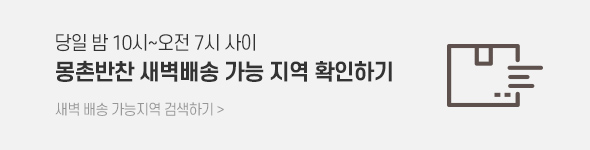
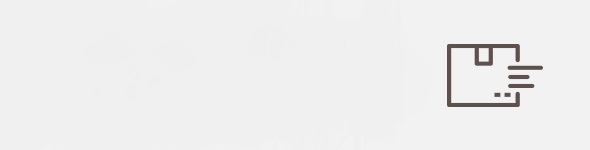
04/30 오전 진행상황

Changed region(s): [[0.0915, 0.4, 0.6712, 0.56], [0.0915, 0.2133, 0.4576, 0.3467], [0.0915, 0.6667, 0.3966, 0.7733]]

diff --git a/mcfood/html/css/main.css b/mcfood/html/css/main.css
@@ -2,7 +2,7 @@
 
 
 /* 슬라이더  */
-#slider {width:100%; height:460px; position: relative;}
+#slider {width:100%; height:460px; position: relative; background-color: #ededed;}
 .imgbox {width:1920px; height:460px; margin:0 auto;}
 
 
@@ -12,22 +12,32 @@
 
 
 /* 배송안내 이미지 */
-.del_con {width:1200px; margin:0 auto;}
-.del_left {float:left; margin:60px 0 90px 0;}
-.del_right {float:right; margin:60px 0 90px 0;}
+.del_con {width:1200px; margin:0 auto; height: 300px;}
+.del_left {float:left; margin:60px 0 90px 5px; width: 590px; height: 150px; background-image: url("../img/del_left.jpg"); background-repeat: no-repeat;}
+.del_left > p {color:#666; margin:30px 0 5px 40px; font-size: 17px; font-weight: bold;}
+.del_left > strong {display: block; font-size: 20px; margin:0 0 15px 40px;}
+.del_left > span {display: block; font-size:14px; margin:0 0 5px 40px;}
+.del_left > span > a {color:#666;}
+.del_right {float:right; margin:60px 5px 90px 0; width: 590px; height: 150px; background-image: url("../img/del_right.jpg"); background-repeat: no-repeat;}
+.del_right > p {color:#666; margin:30px 0 5px 40px; font-size: 17px; font-weight:bold;}
+.del_right > strong {display: block; font-size: 20px; margin:0 0 15px 40px;}
+.del_right > span {display: block; font-size:14px; margin:0 0 5px 40px; color:#666;}
 
 
 
 /* 각 제목 */
-.tit h3 {font-size: 35px; margin:0 0 12px 5px;}
-.tit h4 {font-size: 15px; margin:0 0 10px 5px; color:#1e1a34; line-height: 20px; font-weight: bold;}
+div.tit {width: 100%; height:80px; text-align: center; margin-bottom: 10px;}
+div.tit h3 {font-size: 35px; margin:0 0 12px 5px;}
+div.tit h4 {font-size: 15px; margin:0 0 10px 5px; color:#1e1a34; line-height: 20px; font-weight: bold;}
 
 
 
 /* 신제품 */
-.mainNewWrap {width:1200px; margin:0 auto;}
-.new_con {margin:0 auto 45px 0;}
-.item_cont {width:25%; height:25%; float:left; margin:5px 0 55px 0; padding:0 5px;}
+.mainNewWrap {width:1200px; height:1100px; margin:0 auto;}
+.new_con {width:1200px; height:900px; }
+
+/* 제품 박스 */
+.item_cont {width:25%; float:left; margin:5px 0 55px 0; padding:0 5px;}
 .item_img {width:288px; height:288px; overflow:hidden; position: relative;}
 .item_img > a > img {width:100%; height:100%; transition: 0.4s;}
 .item_img > a > img:hover{transform: scale(1.1);}
@@ -35,28 +45,28 @@
 .item_info span {display: block;}
 .item_info strong {display: block; font-size: 16px;}
 .item_explain {font-size: 13px; color: #777;}
-.price {font-size: 16px; font-weight: bold;}
+.price {font-size: 16px;}
 .t {font-size: 13px; color:#888888}
 
 /* 신제품 더보기 버튼 */
-.newmore {text-align: center; margin:0 0 70px;}
+.newmore {text-align: center;}
 .newmore a {padding:15px 20px; border-radius:40px; border:1px solid #ccc; color: #333; font-size: 15px;}
 .newmore a:hover{cursor:pointer; background-color:#1e1a34; color:#fff; border:none;}
 
 
 
 /* 회색바탕 배너 */
-.mainMiniBanner {width:100%; margin:0 0 100px; background-color: rgba(18,42,78,0.1);}
+.mainMiniBanner {width:100%; height:190px; margin:0 0 100px; background-color: rgba(18,42,78,0.1);}
 .mini_cont {width:1200px; margin:0 auto; padding:40px 0 55px;}
-span.tit {display: block; overflow: hidden; width:100%; padding:0 5px; font-weight: 700; font-size: 30px; line-height: 70px;}
-.txt {display:block; width:100%; padding:0 30px; font-size: 19px; line-height: 25px;}
+span.tit {display:block; overflow: hidden; padding:0 5px; font-weight: 700; font-size: 30px; line-height: 70px;}
+span.txt {display:block;  padding:0 30px; font-size: 19px; line-height: 25px;}
 .none {opacity: 0; cursor:default;}
 
 
 
 /* 베스트 상품 */
-.mainBestWrap {width:1200px; margin:0 auto;}
-.best_con {margin:0 auto 45px 0;}
+.mainBestWrap {width:1200px; height:1100px; margin:0 auto;}
+.best_con {width:1200px; height:900px; }
 
 
 /* 베스트 상품 선택 목록 */
@@ -76,20 +86,23 @@ span.tit {display: block; overflow: hidden; width:100%; padding:0 5px; font-weig
 .icon_btn:hover {background: rgba(256, 256, 256, 1);}
 
 /* 베스트 더보기 버튼 */
-.bestmore {text-align: center; margin:0 0 70px;}
+.bestmore {text-align: center;}
 .bestmore a {padding:15px 20px; border-radius:40px; border:1px solid #ccc; color: #333; font-size: 15px;}
 .bestmore a:hover{cursor:pointer; background-color:#1e1a34; color:#fff; border:none;}
 
 
 
-/* 이벤트 이미지 */
-.event_con {width:1200px; margin:0 auto;}
-.eventImg {margin:30px 0;}
-
-
+/* 이벤트 */
+.event_con {width:1200px; margin:50px auto; height: 600px;}
+.eventImg {margin:30px 0; width: 1200px; height: 400px; background-image: url(../img/event.jpg); background-repeat: no-repeat;}
+.eventImg > .logo {display: inline-block; margin:80px 0 0 70px; font-size: 20px; padding: 10px 15px; color:#fff; background-color: deeppink; border-radius: 20px;}
+.eventImg > strong {display: block; margin:20px 0 10px 65px; font-size: 45px;}
+.eventImg > p {margin:0 0 30px 70px; font-size: 26px;}
+.eventImg > span {display: block; margin:0 0 0 70px; font-size: 20px; }
+.eventImg > span > a {color: #666;}
 
 /* md 추천 */
-.mainMDWrap {margin:50px auto; width:1200px;}
+.mainMDWrap {margin:50px auto 100px; width:1200px; height: 700px;}
 .mainmd {margin:30px 0; height:600px;}
 .mdleft {width:50%; overflow: hidden; float:left; padding:0 10px 0 0;}
 .mdleft img {width:100%;}
@@ -107,7 +120,7 @@ span.tit {display: block; overflow: hidden; width:100%; padding:0 5px; font-weig
 
 
 /* 인스타 */
-.instaCon {width:1200px; margin:0 auto;}
+.instaCon {width:1200px; height:380px; margin:0 auto 50px;}
 .instaTit h3 {margin:0 10px 45px 5px; font-size:40px; display: inline-block;}
 .instaTit a > span {font-size: 22px; color:#808080; padding:0 0 0 20px;}
 .insta_widget {width:100%; height:200px;}
@@ -120,7 +133,7 @@ span.tit {display: block; overflow: hidden; width:100%; padding:0 5px; font-weig
 
 /* .instaCon {text-align: center;} */
 .instamore {text-align: center; margin:0 0 70px;}
-.instamore a {display: inline-block; padding:15px 20px; border-radius:40px; border:1px solid #ccc; color: #333; font-size: 19px;}
+.instamore a {display: inline-block; padding:10px 15px; border-radius:40px; border:1px solid #ccc; color: #333; font-size: 15px;}
 .instamore a:hover{cursor:pointer; background-color:#1e1a34; color:#fff; border:1px solid darkslateblue;}
 
 

diff --git a/mcfood/html/main.html b/mcfood/html/main.html
@@ -150,7 +150,7 @@
                   </div> <!--end gnb_menu2-->
                 </nav>
                 <div class="gnb_infoicon">
-                  <input type="text" placeholder="검색창">
+                  <input type="text">
                 </div>  
               </div> <!--end gnb-->
             </div> <!--end gnbwrap-->
@@ -171,14 +171,19 @@
 
       <!-- 메인콘텐츠 -->
       <div id="contents">
+
+        <!-- 배송관련 배너 -->
         <div class="del_con">
           <div class="del_left">
-            <a href="#">
-              <img src="img/del_left.jpg" alt="del_left">
-            </a>
+            <p>당일 밤 10시~오전 7시 사이</p>
+            <strong><a href="#">몽촌반찬 새벽배송 가능 지역 확인하기</a></strong>
+            <span><a href="#">새벽 배송 가능지역 검색하기</a></span>
           </div>  
+
           <div class="del_right">
-            <img src="img/del_right.jpg" alt="del_right">
+            <p>월, 화, 수, 목, 금</p>
+            <strong>주문 마감 시간 9시</strong>
+            <span>* 오전 9시 전까지 입금 완료 건만 가능</span>
           </div>
         </div> <!--end delcon-->
 
@@ -497,8 +502,11 @@
             <h3>Event</h3>
             <h4>다양한 기획전과 이벤트</h4>
           </div>
-          <div class="eventImg">
-            <a href="#"><img src="img/event.jpg" alt="이벤트"></a>
+          <div class="eventImg">     
+            <span class="logo">EVENT</span>
+            <strong>신혼을 위한, 프리미엄 혜택</strong>
+            <p>6개월 간의 특별한 혜택으로 실속 있는 신혼생활</p>
+            <span><a href="#">자세히보기</a></span>
           </div>
         </div> <!--end event_con-->
 
@@ -657,7 +665,7 @@
                     </dl>
                     <dl>
                       <dt>사업자등록번호 :</dt>
-                      <dd>"770-86-00646 " <a href="">사업자번호조회</a></dd>
+                      <dd>"770-86-00646 " <a href=""><b>사업자번호조회</b></a></dd>
                     </dl>
                     <dl>
                       <dt>통신판매업신고번호 :</dt>

diff --git a/mcfood/html/css/common/footer.css b/mcfood/html/css/common/footer.css
@@ -6,7 +6,7 @@ footer {width:100%; position: relative;}
 .foot_list_wrap {width:100%; height:50px; background-color: #333;}
 .foot_list_wrap > .footer_list {max-width:1200px; margin:0 auto;}
 .footer_list > .footerEtc {float:left; height:50px;}
-.footerEtc a {display: inline-block; height:50px; line-height: 50px; color: #ddd; font-size: 17px; margin:0 25px;}
+.footerEtc a {display: inline-block; height:50px; line-height: 50px; color: #ddd; font-size: 12px; margin:0 25px;}
 .footerEtc a:hover {color: #fff;}
 .footerEtc > li > span {display: inline-block; height:50px; color: #ddd;}
 
@@ -21,9 +21,9 @@ footer {width:100%; position: relative;}
 .foot_1st {float:left; width:30%; vertical-align: top;}
 .foot_1st > ul > .foot_title {margin:0px 12px 2px; font-weight: bold; color: #333; font-size: 19px;}
 .foot_1st > ul > .foot_num {margin: 0 0 5px 7px; line-height: 60px; font-size: 46px; font-weight: bold; color: #000;}
-.foot_1st > ul > .li_cont {margin:0 0 1px 13px; color:#666; font-size: 13px;}
+.foot_1st > ul > .li_cont {margin:0 0 1px 13px; color:#666; font-size: 12px;}
 .foot_2st {float:left; width:68%; vertical-align:top; border-left: 1px solid #ddd;}
-.foot_2st > .foot_info {margin:0 auto 10px 80px; font-size:13px; float:right; color:#666;}
+.foot_2st > .foot_info {margin:0 auto 0 80px; font-size:12px; float:right; color:#666;}
 .foot_info_list {overflow: hidden; width: 100%;}
 .foot_info_list > dl {float:left;}
 .foot_info_list dt {float:left;}

diff --git a/mcfood/html/css/common/header.css b/mcfood/html/css/common/header.css
@@ -53,9 +53,8 @@ header {width:100%; position: relative;}
 .cate_box > ul > li > a {font-size: 12px; color: #666; font-weight: bold;}
 .cate_box > ul > li > a:hover {color: #1e1a34;}
 
-.gnb_infoicon > input {position: absolute; top:12px; border-radius: 15px; padding:8px; border: 1px solid #1e1a34;}
 
-
+/* 네비게이션 메뉴 */
 .gnb_menu2 {float:left;}
 .gnb_menu2 > ul > li {float:left; color: #888; line-height: 55px;}
 
@@ -63,3 +62,8 @@ header {width:100%; position: relative;}
 .menu_tit2 {width:145px; text-align: center;}
 .menu_tit2 a {color: #1e1a34; font-size:15px; font-weight: bold; line-height: 58px;}
 .menu_tit2 a:hover {color:#888;}
+
+
+/* 헤더 검색창 */
+.gnb_infoicon {position: relative; width: 250px; height: 58px; float: right;}
+.gnb_infoicon > input {position: absolute; top:12px; border-radius: 15px; padding:8px; border:1px solid #eee; width: 100%;}

diff --git a/mcfood/html/sub.html b/mcfood/html/sub.html
@@ -149,7 +149,7 @@
                   </div> <!--end gnb_menu2-->
                 </nav>
                 <div class="gnb_infoicon">
-                  <input type="text" placeholder="검색창">
+                  <input type="text">
                 </div>  
               </div> <!--end gnb-->
             </div> <!--end gnbwrap-->
